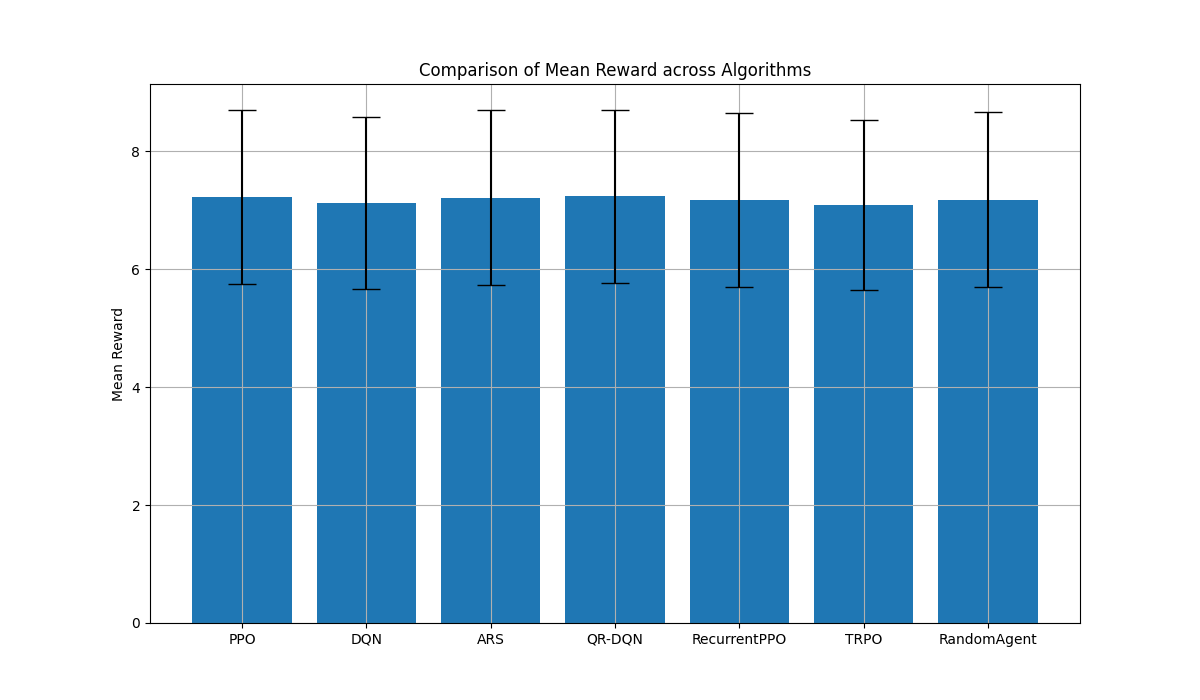
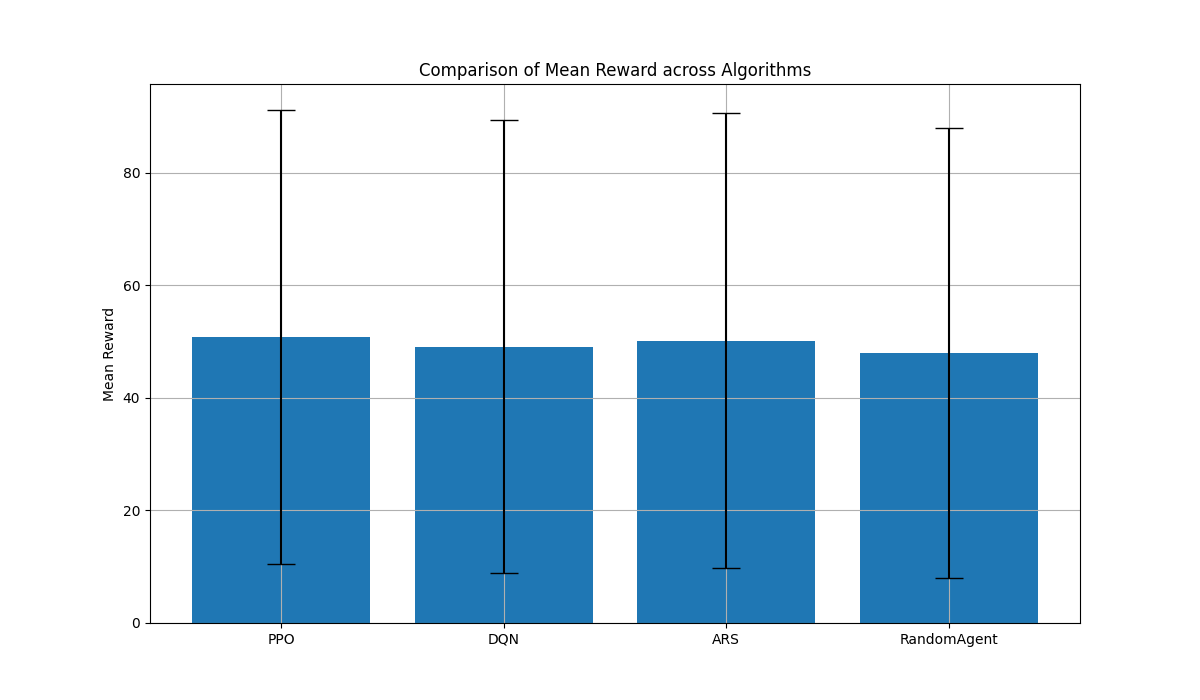
small reward and penalty

diff --git a/aquacroprice/envs/rice.py b/aquacroprice/envs/rice.py
@@ -2,7 +2,6 @@ import gymnasium as gym
 from gymnasium import spaces
 import numpy as np
 import pandas as pd
-import warnings
 from datetime import datetime, timedelta
 from aquacrop.entities.crop import Crop
 from aquacrop.entities.soil import Soil
@@ -10,10 +9,6 @@ from aquacrop.entities.inititalWaterContent import InitialWaterContent
 from aquacrop.entities.irrigationManagement import IrrigationManagement
 from aquacrop.core import AquaCropModel
 from aquacrop.utils import prepare_weather, get_filepath
-
-# Suppress specific warnings
-warnings.filterwarnings("ignore", category=FutureWarning, message="The 'delim_whitespace' keyword in pd.read_csv is deprecated and will be removed in a future version.")
-warnings.filterwarnings("ignore", category=FutureWarning, message="DataFrame.fillna with 'method' is deprecated and will raise in a future version. Use obj.ffill() or obj.bfill() instead.")
 
 # Configuration dictionary for the environment
 config = dict(
@@ -23,7 +18,6 @@ config = dict(
     crop='PaddyRice',
     soil='Paddy',
     init_wc=InitialWaterContent(depth_layer=[1, 2], value=['FC', 'FC']),
-    planting_date='08/01',
     days_to_irr=1,
     max_irr=25,
     action_set='binary',
@@ -35,7 +29,6 @@ class Rice(gym.Env):
         super(Rice, self).__init__()
         print("Initializing Rice environment...")
         self.render_mode = render_mode
-        self.planting_date = config['planting_date']
         self.days_to_irr = config["days_to_irr"]
         self.year1 = config["year1"]
         self.year2 = config["year2"]
@@ -69,6 +62,8 @@ class Rice(gym.Env):
         print(f"Chosen Year: {self.simcalyear}")
 
         crop = config['crop']
+        self.planting_date = self._get_random_planting_date()
+
         if isinstance(crop, str):
             self.crop = Crop(crop, self.planting_date)
         else:
@@ -82,18 +77,35 @@ class Rice(gym.Env):
 
         self.irr_sched = []
 
-        self.model = AquaCropModel(f'{self.simcalyear}/{self.planting_date}', 
-                                f'{self.simcalyear}/12/31', self.wdf, self.soil, self.crop,
-                                irrigation_management=IrrigationManagement(irrigation_method=5),
-                                initial_water_content=self.init_wc)
+        self.model = AquaCropModel(
+            f'{self.simcalyear}/{self.planting_date}', 
+            f'{self.simcalyear}/12/31', 
+            self.wdf, 
+            self.soil, 
+            self.crop,
+            irrigation_management=IrrigationManagement(irrigation_method=5),
+            initial_water_content=self.init_wc
+        )
+
         self.model.run_model()
-        
+
         self.cumulative_reward = 0.0
         
         obs = self._get_obs()
         info = dict()
 
         return obs, info
+
+    def _get_random_planting_date(self):
+        # Generate a random planting date between January 1 and August 1
+        start_date = datetime.strptime("01/01", "%m/%d")
+        end_date = datetime.strptime("08/01", "%m/%d")
+
+        delta_days = (end_date - start_date).days
+        random_days = np.random.randint(0, delta_days + 1)
+        random_date = start_date + timedelta(days=random_days)
+
+        return random_date.strftime("%m/%d")
 
     def _get_obs(self):
         cond = self.model._init_cond
@@ -121,8 +133,6 @@ class Rice(gym.Env):
             prev_day_precipitation,
         ], dtype=np.float32)
 
-        # print(f'Obs: {obs}')
-
         return obs
 
     def _get_total_precipitation_last_7_days(self):
@@ -149,31 +159,56 @@ class Rice(gym.Env):
         # Map the binary action to irrigation depth
         depth = 0 if action == 0 else self.max_irr
         self.model.irrigation_management.depth = depth
-        # print(f"Applied irrigation depth: {depth}")
         
+        # Run the model for the current step
         self.model.run_model(initialize_model=False)
-        # print(f'Timestep: {self.model._clock_struct.time_step_counter}')
         
         terminated = self.model._clock_struct.model_is_finished
         truncated = False
         next_obs = self._get_obs()
         
+        # Initialize reward
         reward = 0
         
+        # Access current timestep, biomass, and canopy cover values
+        current_timestep = self.model._clock_struct.time_step_counter
+        biomass = self.model._init_cond.biomass
+        canopy_cover = self.model._init_cond.canopy_cover
+
+        # Print biomass, canopy cover, and the action taken for each step
+        # print(f"Step {current_timestep}: Biomass = {biomass}, Canopy Cover = {canopy_cover}, Action Taken = {action}")
+
+        # Normalize biomass to a similar scale as the fresh yield
+        normalized_biomass = biomass / 1000.0
+
+        # Give small rewards for biomass and canopy cover until 50 timesteps
+        if current_timestep <= 50:
+            biomass_reward = normalized_biomass * 0.1  # Scaled down biomass reward
+            canopy_cover_reward = canopy_cover * 0.1
+            reward += biomass_reward + canopy_cover_reward
+        else:
+            additional_reward = 0
+            if normalized_biomass > 1:  # Since biomass is normalized, adjust the condition
+                additional_reward += normalized_biomass * 0.05
+            reward += additional_reward
+
+        # Final reward based on fresh yield at the end of the episode
         if terminated:
             fresh_yield = self.model._outputs.final_stats['Fresh yield (tonne/ha)'].mean()
-            avg_yield = 7.0
-            if self.mode == 'train':
-                if fresh_yield < avg_yield:
-                    reward = fresh_yield - 3.0
-                    print(f'Final Reward with Penalty: {reward} (Fresh Yield: {fresh_yield})')
-                else:
-                    reward = fresh_yield
-                    print(f'Final Reward with No Penalty: {reward} (Fresh Yield: {fresh_yield})')
-            else:
-                reward = fresh_yield
-                print(f'Final Reward: {reward} (Fresh Yield: {fresh_yield})')
+            reward += fresh_yield * 10
+            
+            # Apply penalty if yield is below 7
+            if fresh_yield < 7:
+                penalty = -50  # You can adjust this penalty value
+                reward += penalty
+                print(f'Yield Penalty Applied: {penalty}')
+            
+            print(f'Final Reward: {reward} (Fresh Yield: {fresh_yield})')
         
         info = dict()
 
         return next_obs, reward, terminated, truncated, info
+
+
+
+

diff --git a/train.py b/train.py
@@ -8,6 +8,13 @@ from stable_baselines3.common.evaluation import evaluate_policy
 from sb3_contrib import TRPO, ARS, QRDQN, RecurrentPPO, TQC
 from aquacroprice.envs.rice import Rice
 
+import warnings
+import logging
+
+
+warnings.filterwarnings("ignore", category=FutureWarning)
+logging.basicConfig(level=logging.WARNING)
+
 # Custom callback for logging and plotting rewards
 class RewardLoggingCallback(BaseCallback):
     def __init__(self, experiment, verbose=0):
@@ -65,16 +72,16 @@ train_env = DummyVecEnv([lambda: Rice(mode='train')])
 reward_logging_callback = RewardLoggingCallback(experiment)
 
 # Training parameters (shared among algorithms)
-train_timesteps = 10000
+train_timesteps = 20000
 
 # Define algorithms and hyperparameters
 algorithms = {
     "PPO": PPO("MlpPolicy", train_env, verbose=1, learning_rate=1e-3, n_steps=2048, batch_size=64, n_epochs=10),
     "DQN": DQN("MlpPolicy", train_env, verbose=1, learning_rate=1e-3, buffer_size=10000, batch_size=32),
     "ARS": ARS("MlpPolicy", train_env, verbose=1, n_delta=32, n_top=16),
-    "QR-DQN": QRDQN("MlpPolicy", train_env, verbose=1, learning_rate=1e-3, buffer_size=10000, batch_size=32),
-    "RecurrentPPO": RecurrentPPO("MlpLstmPolicy", train_env, verbose=1, learning_rate=1e-3, n_steps=2048, batch_size=64, n_epochs=10),
-    "TRPO": TRPO("MlpPolicy", train_env, verbose=1, learning_rate=1e-3, n_steps=2048),
+    # "QR-DQN": QRDQN("MlpPolicy", train_env, verbose=1, learning_rate=1e-3, buffer_size=10000, batch_size=32),
+    # "RecurrentPPO": RecurrentPPO("MlpLstmPolicy", train_env, verbose=1, learning_rate=1e-3, n_steps=2048, batch_size=64, n_epochs=10),
+    # "TRPO": TRPO("MlpPolicy", train_env, verbose=1, learning_rate=1e-3, n_steps=2048),
 }
 
 # Define the Random Agent
